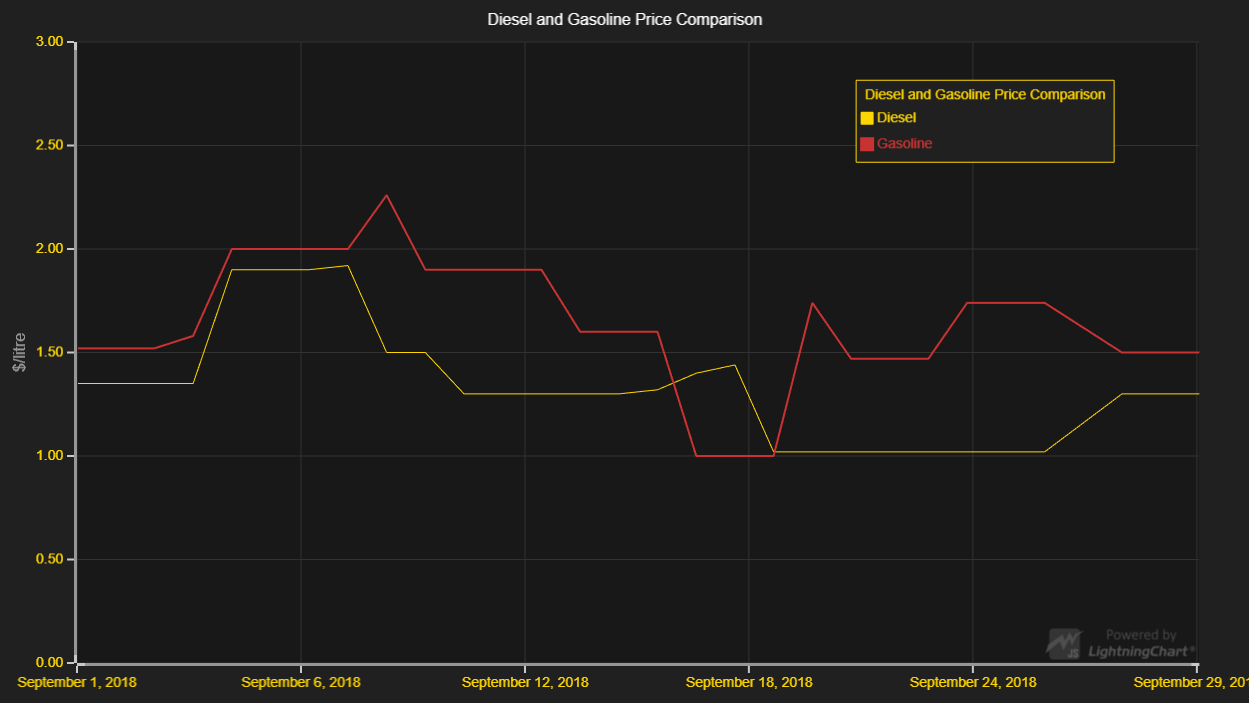
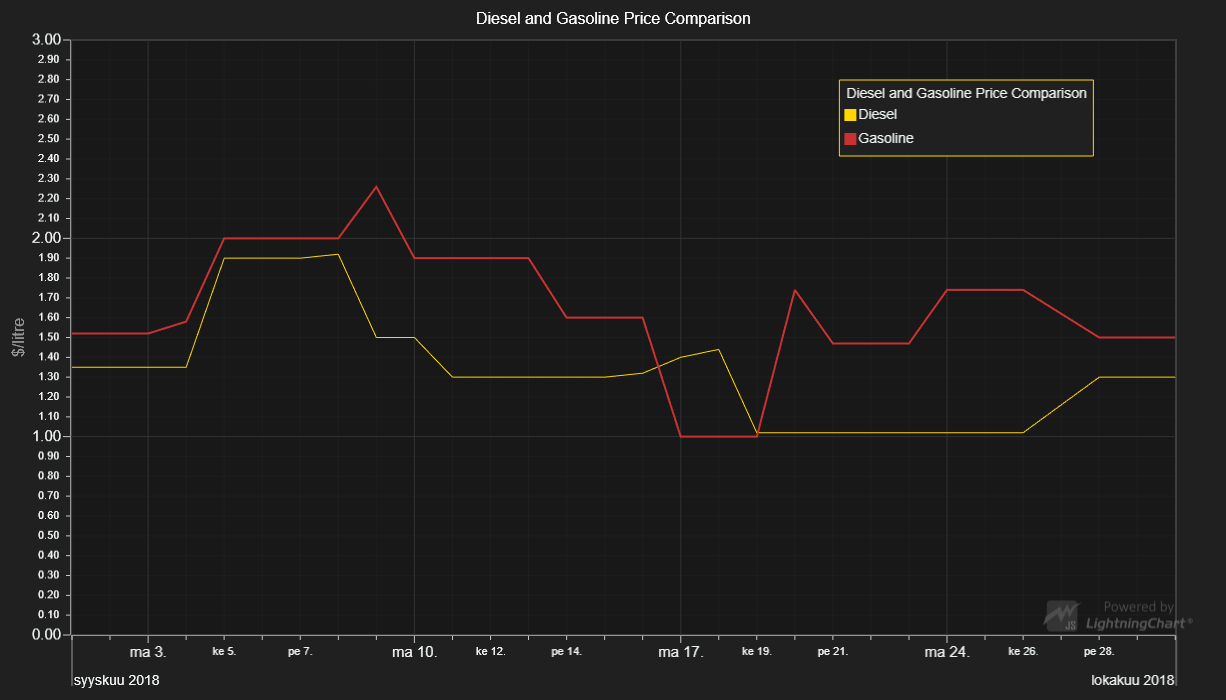
LCJS 2.0.0

diff --git a/src/index.js b/src/index.js
@@ -12,7 +12,8 @@ const {
     ColorRGBA,
     AxisTickStrategies,
     UIOrigins,
-    DataPatterns
+    DataPatterns,
+    Themes
 } = lcjs
 
 // Decide on an origin for DateTime axis.
@@ -23,11 +24,14 @@ const customStrokeStyle = new SolidLine({ fillStyle: new SolidFill({ color: Colo
 
 // Create a XY Chart.
 const chart = lightningChart().ChartXY({
-    defaultAxisXTickStrategy: AxisTickStrategies.DateTime(dateOrigin)
+    // theme: Themes.dark
 })
-    .setPadding({
-        right: 50
-    })
+// Modify the default X Axis to use DateTime TickStrategy, and set the origin for the DateTime Axis.
+chart.getDefaultAxisX().setTickStrategy(AxisTickStrategies.DateTime, (tickStrategy) => tickStrategy.setDateOrigin(dateOrigin))
+
+chart.setPadding({
+    right: 50
+})
     .setTitle('Diesel and Gasoline Price Comparison')
 
 const diesel = [

diff --git a/README.md b/README.md
@@ -52,8 +52,8 @@ series.add([
 
 ## API Links
 
-* XY cartesian chart: [ChartXY]
-* Line series: [LineSeries]
+* [XY cartesian chart]
+* [Line series]
 
 
 ## Support
@@ -77,6 +77,6 @@ Direct developer email support can be purchased through a [Support Plan][4] or b
 © Arction Ltd 2009-2020. All rights reserved.
 
 
-[ChartXY]: https://www.arction.com/lightningchart-js-api-documentation/v1.3.0/classes/chartxy.html
-[LineSeries]: https://www.arction.com/lightningchart-js-api-documentation/v1.3.0/classes/lineseries.html
+[XY cartesian chart]: https://www.arction.com/lightningchart-js-api-documentation/v2.0.0/classes/chartxy.html
+[Line series]: https://www.arction.com/lightningchart-js-api-documentation/v2.0.0/classes/lineseries.html
 
